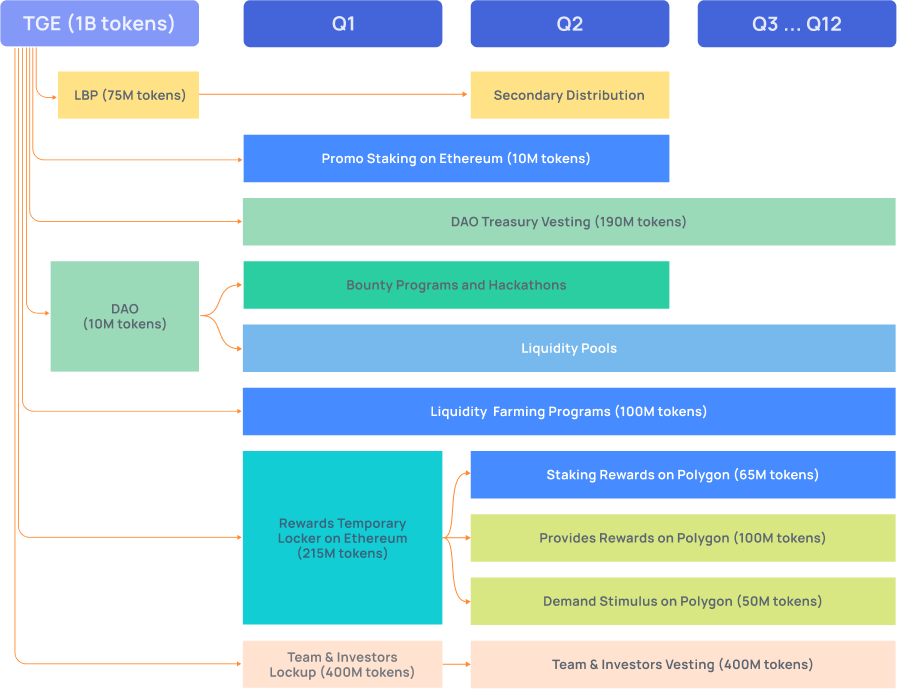
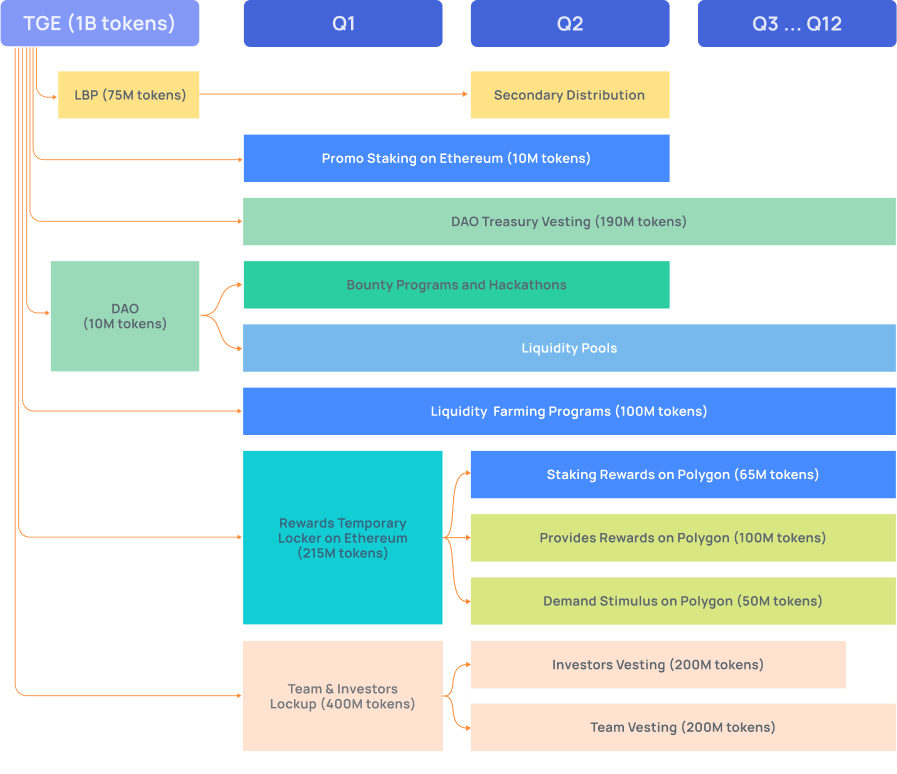
Investor vesting change

diff --git a/whitepaper/tokenomics.md b/whitepaper/tokenomics.md
@@ -29,8 +29,8 @@ In order to minimize the negative impact of token inflation, as well as the poss
 |Demand Stimulus|5.0%|3 months|Linearly over 33 months after the lock-up period|
 |Staking Rewards|7.5%||Linearly over 36 months|
 |Liquidity Rewards|10.0%||2% after the TGE, the rest linearly over 36 months|
-|Pre-seed|5.0%|3 months|Linearly on a block-by-block basis over 33 months after the lock-up period|
-|Private Rounds|15.0%|3 months|Linearly on a block-by-block basis over 33 months after the lock-up period|
+|Pre-seed|5.0%|3 months|Linearly on a block-by-block basis over 21 months after the lock-up period|
+|Private Rounds|15.0%|3 months|Linearly on a block-by-block basis over 21 months after the lock-up period|
 |Team|20.0%|3 months|Linearly on a block-by-block basis over 33 months after the lock-up period|
 |DAO|20.0%||1% after the TGE, the rest linearly over 36 months|
 
@@ -110,7 +110,7 @@ Once the public sale is complete, a promo staking program on Ethereum will be la
 - Rewards for TEE Providers: 100 million (10%) tokens
 - Stimulating demand for protocol products and services: 50 million (5%) tokens
 
-Investors, founders, advisers and project team will start receiving tokens 3 months after the TGE. A total of 400 million (40%) tokens will be unlocked for them over a period of 3 years.
+Investors, founders, advisers and project team will start receiving tokens 3 months after the TGE. A total of 400 million (40%) tokens will be unlocked for them over a period of up to 3 years (2 years for investors).
 
 The distribution of tokens over time since the start of the project is shown in the diagram below.
 
